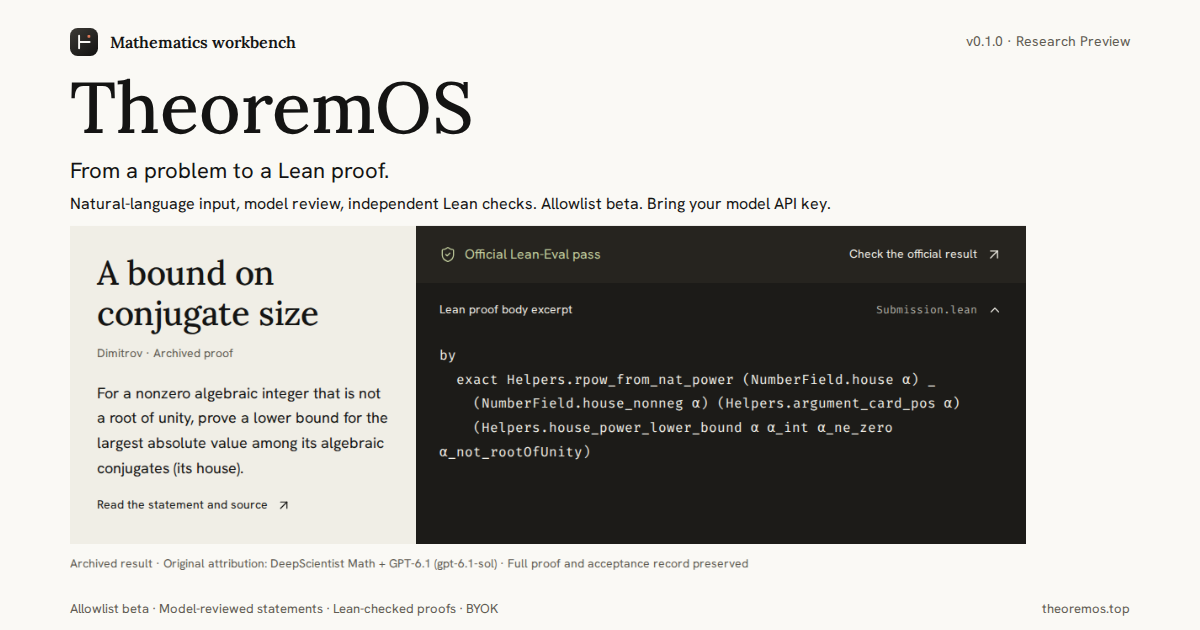
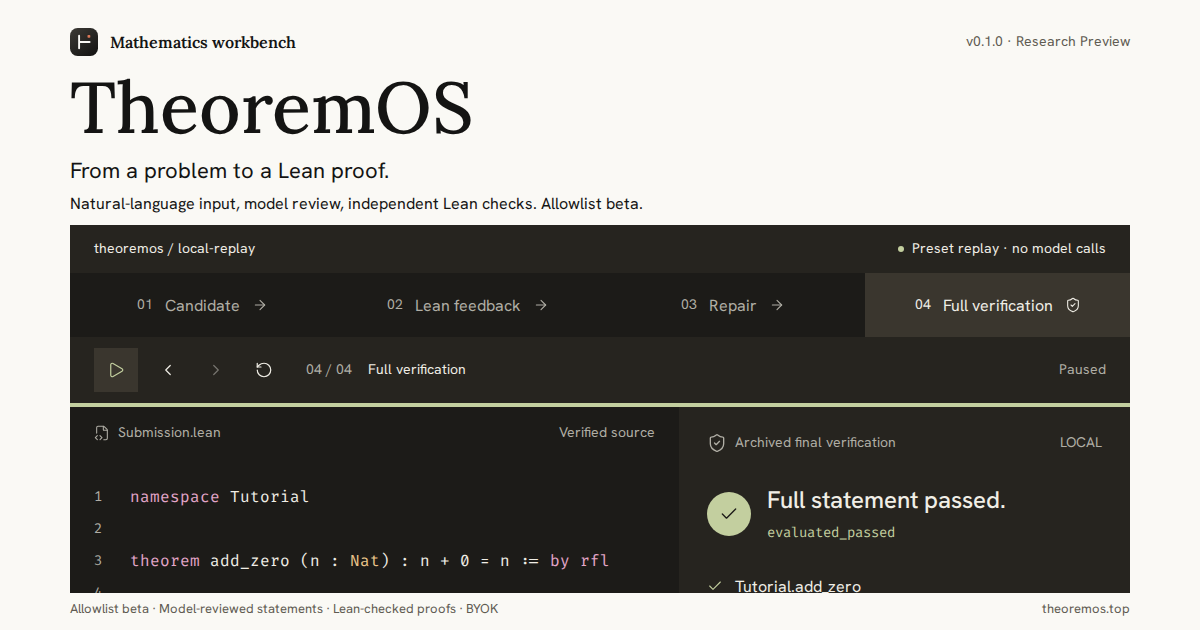
Restore the original website palette and serif identity

Changed region(s): [[0.0308, 0.3317, 0.9558, 0.9651], [0.5242, 0.3016, 0.7092, 0.3619], [0.5858, 0.4825, 0.6475, 0.5127]]

diff --git a/docs/landing.css b/docs/landing.css
@@ -27,29 +27,53 @@
   font-display: swap;
 }
 
+@font-face {
+  font-family: "TheoremOS Serif Latin";
+  src: url("assets/fonts/TheoremOSSerif-latin.woff2") format("woff2");
+  font-style: normal;
+  font-weight: 400 700;
+  font-display: swap;
+}
+@font-face {
+  font-family: "TheoremOS Serif SC";
+  src: url("assets/fonts/NotoSerifSC-ui.woff2") format("woff2");
+  font-weight: 400 700;
+  font-display: swap;
+  unicode-range: U+3000-303F,U+4E00,U+4E09-4E0B,U+4E0D-4E0E,U+4E13-4E14,U+4E22,U+4E24,U+4E2A,U+4E2D,U+4E34,U+4E3A-4E3B,U+4E45,U+4E48-4E49,U+4E4B,U+4E5F,U+4E86,U+4E8B,U+4E8E,U+4E94,U+4E9B,U+4EA4,U+4EA7,U+4EAB,U+4EBA,U+4EC0,U+4EC5,U+4ECB,U+4ECD-4ECE,U+4ED6,U+4ED8,U+4EE3-4EE5,U+4EEC,U+4EF6-4EF7,U+4EFB,U+4EFD,U+4F18,U+4F1A,U+4F20,U+4F4D,U+4F53,U+4F55,U+4F59,U+4F5C,U+4F60,U+4F7F,U+4F8B,U+4F9B,U+4F9D,U+4FA7,U+4FDD,U+4FE1,U+4FEE,U+5019,U+503C,U+5047,U+505A,U+505C,U+50A8,U+50CF,U+5141,U+5145,U+5148,U+5165,U+5168,U+516C,U+5171,U+5173,U+5176-5177,U+517C,U+5185,U+518C-518D,U+5199,U+51B2-51B3,U+51C6,U+51CF,U+51E0-51E1,U+51ED,U+51FA-51FB,U+51FD,U+5206-5207,U+5212,U+5217,U+5219,U+521B,U+521D,U+5220,U+5224,U+5230,U+5236-5237,U+524D,U+5269-526A,U+526F,U+529B,U+529F-52A1,U+52A8-52A9,U+52FF,U+5305,U+5316,U+5339-533A,U+534A,U+534F,U+5355,U+5357,U+5360,U+5373,U+5386,U+538B,U+539F,U+53C2,U+53CA,U+53CC-53CD,U+53D1,U+53D6-53D8,U+53E0,U+53E3,U+53E5-53E6,U+53EA,U+53EF-53F0,U+53F2-53F3,U+53F7,U+5404,U+5408,U+540C-540E,U+5411,U+5417,U+5426,U+542B,U+542F,U+544A,U+547D,U+548C,U+54A8,U+54C1,U+54C8,U+54CD,U+54EA,U+5546,U+5668,U+56DB,U+56DE,U+56E0,U+56F4,U+56FA,U+56FE,U+5728,U+5730,U+573A,U+5740,U+5747,U+5757,U+578B,U+57DF,U+57FA,U+585E,U+586B,U+5883,U+589E,U+58F0,U+5904,U+5907,U+590D,U+5916,U+591A,U+5927,U+5931,U+5934,U+5939,U+597D,U+5982,U+59CB,U+5B57-5B58,U+5B66,U+5B83,U+5B89,U+5B8C,U+5B98,U+5B9A,U+5B9E,U+5BA1,U+5BB9,U+5BBD,U+5BC6,U+5BDF,U+5BF9,U+5BFC,U+5C06,U+5C0F,U+5C11,U+5C1A,U+5C1D,U+5C31,U+5C3E,U+5C40,U+5C42,U+5C55,U+5C5E,U+5DE5-5DE6,U+5DEE,U+5DF1-5DF2,U+5E03,U+5E0C,U+5E26,U+5E38,U+5E72-5E73,U+5E76,U+5E8F,U+5E93-5E94,U+5EA6,U+5EF6,U+5EFA,U+5F00,U+5F02-5F03,U+5F0F,U+5F15,U+5F20,U+5F3A,U+5F52-5F53,U+5F55,U+5F62,U+5F71,U+5F80,U+5F84-5F85,U+5F97,U+5FAA,U+5FAE,U+5FC3,U+5FC5,U+5FEB,U+5FFD,U+6001,U+601D,U+6027,U+603B,U+6062,U+606F,U+60AC,U+60C5,U+60F3,U+610F,U+611F,U+6210-6211,U+6216,U+622A,U+6237,U+6240,U+624B,U+624D,U+6253,U+6267,U+6269,U+627E,U+628A,U+6295,U+6298,U+62A5,U+62D2,U+62D6,U+62E9,U+62EC,U+6301,U+6307,U+6309,U+6320,U+6355,U+6362,U+636E,U+6392,U+63A2,U+63A5,U+63A8,U+63CF-63D0,U+641C,U+6458,U+64A4,U+64AD,U+64CD,U+652F,U+6536,U+6539,U+653E,U+6545,U+6548,U+654F,U+6563,U+6570,U+6574,U+6587,U+6599,U+65AD,U+65B0,U+65B9,U+65CF,U+65E0,U+65E5,U+65E7,U+65E9,U+65F6,U+660E,U+662F,U+663E,U+666E-666F,U+6682,U+66F4,U+66FC,U+66FF-6700,U+6709,U+670D,U+671B,U+671F,U+672A-672C,U+673A,U+6743,U+6750,U+675F,U+6761,U+6765,U+677F,U+6784,U+6790,U+679C,U+67E5,U+6807,U+680F,U+6821,U+6838-6839,U+683C,U+6846,U+6848,U+6863,U+68C0,U+6982,U+69DB,U+6A21,U+6B21,U+6B62-6B65,U+6BB5,U+6BCD,U+6BCF,U+6BD4,U+6C42,U+6CA1,U+6CBF,U+6CD5,U+6CDB,U+6CE8,U+6D3B,U+6D41,U+6D4B,U+6D4F,U+6D88,U+6DFB,U+6E05,U+6E10,U+6E38,U+6E90,U+6EAF,U+6ED1,U+6EDA,U+6EDE,U+6EE1,U+70B9,U+7136,U+7167,U+7247-7248,U+724C,U+7269,U+72B6,U+72EC,U+731C,U+7387,U+73AF-73B0,U+7406,U+751F,U+7528,U+7531,U+753B,U+754C,U+7559,U+7565,U+7591,U+767B,U+7684,U+76D6,U+76D8,U+76EE,U+76F4,U+76F8,U+770B,U+771F,U+77E5,U+77ED,U+7801,U+7814,U+786E,U+78C1,U+793A,U+79BB,U+79CD,U+79D2,U+79F0,U+79FB,U+7A0B,U+7A0D,U+7A3F,U+7A76,U+7A7A,U+7A81,U+7A97,U+7ACB,U+7AD9,U+7AE0,U+7B26,U+7B2C,U+7B49,U+7B56,U+7B5B,U+7B7E,U+7B80,U+7B97,U+7C7B,U+7C98,U+7CBE,U+7CFB,U+7D22,U+7D2F,U+7E41,U+7EA6-7EA7,U+7EB3,U+7EBF,U+7EC4,U+7EC6-7EC8,U+7ECF,U+7ED1,U+7ED3,U+7ED9,U+7EDC-7EDD,U+7EDF,U+7EE7,U+7EEA,U+7EED,U+7F13,U+7F16,U+7F29,U+7F3A,U+7F51,U+7F6E,U+7F72,U+7FA4,U+8003,U+8005,U+8017,U+8054,U+80FD,U+811A,U+81EA,U+81F3-81F4,U+822A,U+8272,U+8282,U+82F1,U+8303,U+8349,U+83B7,U+85CF,U+884C,U+8865,U+8868,U+88AB,U+88C5,U+8981,U+8986,U+89C1-89C2,U+89C4,U+89C6,U+89C8,U+89D2,U+89E3,U+8BA1,U+8BA4,U+8BA8-8BA9,U+8BAE,U+8BB0,U+8BB2,U+8BB8,U+8BBA,U+8BBE-8BBF,U+8BC1,U+8BC6,U+8BC9-8BCA,U+8BCD,U+8BD1,U+8BD5,U+8BDD,U+8BE2,U+8BE5-8BE6,U+8BED,U+8BEF,U+8BF4,U+8BF7,U+8BFB,U+8C03,U+8C31,U+8C61,U+8D1F,U+8D23,U+8D25-8D26,U+8D28,U+8D34,U+8D39,U+8D44,U+8D56,U+8D77,U+8D85,U+8DB3,U+8DD1,U+8DDF,U+8DE8,U+8DEF,U+8DF3,U+8EAB,U+8F6C,U+8F6E,U+8F7D,U+8F83,U+8F85,U+8F91,U+8F93,U+8FBE,U+8FC1,U+8FC7,U+8FD0-8FD1,U+8FD4,U+8FD8-8FD9,U+8FDB,U+8FDE,U+8FF0,U+8FFD,U+9000-9002,U+9009,U+9010,U+9012,U+9017,U+901A,U+9020,U+903B,U+9047,U+9053,U+90E8,U+90FD,U+914D,U+9192,U+91C7,U+91CA,U+91CC-91CD,U+91CF,U+94A5,U+94FE,U+9500,U+9519,U+952E,U+955C,U+957F,U+95E8,U+95ED-95EE,U+95F2,U+95F4,U+9605,U+9608,U+961F,U+9636,U+963B,U+9644-9645,U+9650,U+9664,U+968F-9690,U+9694,U+969C,U+96C6,U+96F6,U+9700,U+9759,U+975E,U+9762,U+9875,U+9879-987B,U+9884,U+9886,U+9891,U+9898,U+989D,U+9988,U+9996,U+9A8C,U+9AA4,U+9AD8,U+9ECE,U+9ED8,U+FF01-FF5E;
+}
+@font-face {
+  font-family: "TheoremOS Serif SC";
+  src: url("assets/fonts/NotoSerifSC-common.woff2") format("woff2");
+  font-weight: 400 700;
+  font-display: swap;
+  unicode-range: U+4E01,U+4E03,U+4E07-4E08,U+4E11,U+4E16,U+4E18-4E1D,U+4E25,U+4E27,U+4E2B,U+4E30,U+4E32,U+4E38-4E39,U+4E3D-4E3E,U+4E43,U+4E4C-4E50,U+4E52-4E54,U+4E56,U+4E58-4E59,U+4E5D-4E5E,U+4E60-4E61,U+4E66,U+4E70-4E71,U+4E73,U+4E7E,U+4E88-4E89,U+4E8C,U+4E8F,U+4E91-4E92,U+4E95,U+4E9A,U+4EA1-4EA2,U+4EA5-4EA6,U+4EA8-4EA9,U+4EAC-4EAE,U+4EB2,U+4EBF,U+4EC1,U+4EC6-4EC7,U+4ECA,U+4ED1,U+4ED3-4ED5,U+4ED7,U+4ED9,U+4EDF,U+4EEA,U+4EF0,U+4EF2,U+4EFF,U+4F01,U+4F0A,U+4F0D-4F11,U+4F17,U+4F19,U+4F1E-4F1F,U+4F24,U+4F26,U+4F2A,U+4F2F-4F30,U+4F34,U+4F36,U+4F38,U+4F3A,U+4F3C,U+4F43,U+4F46,U+4F4E-4F51,U+4F5B,U+4F63,U+4F69,U+4F6C,U+4F6F-4F70,U+4F73,U+4F84,U+4F88,U+4F8D,U+4F97,U+4FA0,U+4FA3,U+4FA5-4FA6,U+4FA8-4FA9,U+4FAE-4FAF,U+4FB5,U+4FBF,U+4FC3-4FC4,U+4FCA,U+4FCF-4FD0,U+4FD7-4FD8,U+4FDE,U+4FE9,U+4FED,U+4FEF,U+4FF1,U+4FFA,U+500D,U+5012,U+5014,U+5018,U+501A,U+501F,U+5021,U+5026,U+502A,U+503A,U+503E,U+504F,U+5065,U+5076-5077,U+507F-5080,U+5085,U+5088,U+508D,U+50A3,U+50AC,U+50B2,U+50BB,U+50DA,U+50E7,U+50F3,U+50F5,U+50FB,U+5112,U+5121,U+513F,U+5143-5144,U+5146,U+5149,U+514B,U+514D,U+5151,U+5154,U+515A,U+515C,U+5162,U+516B,U+516D,U+5170,U+5174-5175,U+5178-5179,U+517B,U+517D,U+5180,U+5188-5189,U+5192,U+5195,U+5197,U+519B-519C,U+51A0,U+51A4,U+51AC,U+51AF-51B0,U+51B5-51B7,U+51BB,U+51C0,U+51C4,U+51C9,U+51CB-51CC,U+51D1,U+51DB,U+51DD,U+51E4,U+51EF-51F0,U+51F3,U+51F6,U+51F8-51F9,U+51FF-5201,U+5203,U+520A,U+5211,U+5218,U+521A,U+5228-5229,U+522B,U+522E,U+5238-523B,U+523D,U+5241-5243,U+524A,U+5250-5251,U+5254,U+5256,U+5265,U+5267,U+5272,U+527F,U+5288,U+529D-529E,U+52A3,U+52AA-52AB,U+52B1-52B3,U+52BF,U+52C3,U+52C7,U+52C9,U+52CB,U+52D2,U+52D8,U+52DF,U+52E4,U+52FA,U+52FE,U+5300,U+5306,U+5308,U+5317,U+5319,U+531D,U+5320-5321,U+5323,U+532A,U+533B,U+533F,U+5341,U+5343,U+5347-5349,U+534E,U+5351-5353,U+5356,U+535A,U+535C,U+535E,U+5361-5362,U+5364,U+5367,U+536B,U+536F-5371,U+5374-5375,U+5377-5378,U+537F,U+5382,U+5384-5385,U+5389,U+538C,U+5395,U+5398,U+539A,U+53A2,U+53A6,U+53A8-53A9,U+53BB,U+53BF,U+53C1,U+53C8-53C9,U+53CB,U+53D4,U+53D9,U+53DB,U+53E4,U+53EB-53EE,U+53F6,U+53F8-53F9,U+53FC,U+5401,U+5403,U+5409-540A,U+540F-5410,U+5413,U+5415,U+541B,U+541D-5420,U+5427-5429,U+542C-542E,U+5431,U+5434-5435,U+5438-5439,U+543B-543C,U+543E,U+5440,U+5446,U+5448,U+5450,U+5455,U+5458,U+545B-545C,U+5462,U+5468,U+5473,U+5475,U+5478,U+547B-547C,U+5480,U+5486,U+548B,U+548E-5490,U+5492,U+5495-5496,U+5499,U+54AC,U+54AF,U+54B1,U+54B3,U+54B8,U+54BD,U+54C0,U+54C4,U+54C6-54C7,U+54C9,U+54CE,U+54D1,U+54D7,U+54DF,U+54E5-54E6,U+54E8-54E9,U+54ED-54EE,U+54F2,U+54FA,U+54FC,U+5501,U+5506-5507,U+5509,U+5510,U+5524,U+552C,U+552E-552F,U+5531,U+553E,U+5543-5544,U+554A,U+5561,U+5564-5566,U+556A,U+556E,U+5578,U+557C,U+5580,U+5582,U+5584,U+5587,U+5589-558A,U+5598,U+559C-559D,U+55A7,U+55B3,U+55B7,U+55BB,U+55C5,U+55D3,U+55DC,U+55E1,U+55E3,U+55FD,U+5609,U+560E,U+5618,U+561B,U+5631-5632,U+5634,U+5636,U+563B,U+563F,U+564E,U+566A,U+566C,U+5676,U+568E-568F,U+56A3,U+56B7,U+56BC,U+56CA,U+56DA,U+56E2,U+56E4,U+56ED,U+56F0-56F1,U+56FD,U+5703,U+5706,U+5708,U+571F,U+5723,U+572D,U+573E,U+574A,U+574D-5751,U+575A-575B,U+575D-5761,U+5764,U+5766,U+576A,U+576F,U+5777,U+5782-5784,U+5792,U+579B,U+57A2-57A3,U+57A6,U+57AB,U+57AE,U+57C2-57C3,U+57CB,U+57CE,U+57D4,U+57E0,U+57F9,U+5802,U+5806,U+5811,U+5815,U+5821,U+5824,U+582A,U+5830,U+5835,U+584C,U+5851,U+5854,U+5858,U+5885,U+5892-5893,U+5899,U+589F,U+58A8-58A9,U+58C1,U+58D5,U+58E4,U+58EB-58EC,U+58EE,U+58F3,U+58F6,U+58F9,U+590F,U+5915,U+591C,U+591F,U+5929-592B,U+592E-592F,U+5937-5938,U+593A,U+5944,U+5947-5949,U+594B,U+594E-594F,U+5951,U+5954,U+5956-5957,U+5960,U+5962,U+5965,U+5973-5974,U+5976,U+5978-5979,U+5984,U+5986-5988,U+598A,U+5992-5993,U+5996,U+5999,U+59A5,U+59A8,U+59AE,U+59B9,U+59BB,U+59C6,U+59D0-59D1,U+59D3-59D4,U+59DA,U+59DC,U+59E5,U+59E8,U+59EC,U+59FB,U+59FF,U+5A01,U+5A03-5A04,U+5A07,U+5A18,U+5A1C,U+5A1F-5A20,U+5A25,U+5A29,U+5A31,U+5A36,U+5A46,U+5A49,U+5A5A,U+5A6A,U+5A74,U+5A76,U+5A7F,U+5A92,U+5A9A,U+5AB3,U+5AC1-5AC2,U+5AC9,U+5ACC,U+5AE1,U+5AE9,U+5B50,U+5B54-5B55,U+5B59,U+5B5C-5B5D,U+5B5F,U+5B63-5B64,U+5B69-5B6A,U+5B70,U+5B75,U+5B7A,U+5B7D,U+5B81,U+5B85,U+5B87-5B88,U+5B8B,U+5B8F,U+5B97,U+5B99,U+5B9B-5B9D,U+5BA0,U+5BA2-5BA4,U+5BA6,U+5BAA-5BAB,U+5BB0,U+5BB3-5BB6,U+5BBE-5BBF,U+5BC2,U+5BC4-5BC5,U+5BC7,U+5BCC,U+5BD0,U+5BD2-5BD3,U+5BDD-5BDE,U+5BE1,U+5BE5,U+5BE8,U+5BF8,U+5BFA-5BFB,U+5BFF,U+5C01,U+5C04,U+5C09-5C0A,U+5C14,U+5C16,U+5C18,U+5C24,U+5C27,U+5C38-5C3A,U+5C3C-5C3D,U+5C3F,U+5C41,U+5C45,U+5C48-5C4B,U+5C4E-5C4F,U+5C51,U+5C60-5C61,U+5C65,U+5C6F,U+5C71,U+5C79,U+5C7F,U+5C81-5C82,U+5C94,U+5C97,U+5C9B,U+5CA9,U+5CAD,U+5CB3,U+5CB8,U+5CBF,U+5CD9,U+5CE1,U+5CE6,U+5CE8,U+5CEA,U+5CED,U+5CF0,U+5CFB,U+5D07,U+5D0E,U+5D14,U+5D16,U+5D29,U+5D2D,U+5D4C,U+5DCD,U+5DDD-5DDE,U+5DE1-5DE2,U+5DE7-5DE9,U+5DEB,U+5DF3-5DF4,U+5DF7,U+5DFE,U+5E01-5E02,U+5E05-5E06,U+5E08,U+5E10,U+5E15-5E16,U+5E18,U+5E1A-5E1D,U+5E27,U+5E2D-5E2E,U+5E3D,U+5E42,U+5E45,U+5E4C,U+5E55,U+5E62,U+5E74,U+5E78,U+5E7B-5E7D,U+5E7F,U+5E84,U+5E86-5E87,U+5E8A,U+5E90,U+5E95,U+5E97,U+5E99-5E9A,U+5E9C,U+5E9E-5E9F,U+5EA7,U+5EAD,U+5EB6-5EB8,U+5EC9-5ECA,U+5ED3,U+5ED6,U+5EF7,U+5F04,U+5F0A,U+5F13,U+5F17-5F18,U+5F1B,U+5F1F,U+5F25-5F27,U+5F2F,U+5F31,U+5F39,U+5F5D,U+5F64,U+5F66,U+5F69-5F6A,U+5F6C-5F6D,U+5F70,U+5F79,U+5F7B-5F7C,U+5F81,U+5F88,U+5F8A-5F8B,U+5F90,U+5F92,U+5F98,U+5FA1,U+5FB7,U+5FBD,U+5FC6,U+5FCC-5FCD,U+5FD7-5FD9,U+5FE0,U+5FE7,U+5FF1,U+5FF5,U+5FFB,U+5FFF-6000,U+6002,U+600E,U+6012,U+6014-6016,U+601C,U+6020,U+6025,U+6028,U+602A,U+602F,U+6043,U+604B,U+604D,U+6050,U+6052,U+6055,U+6064,U+6068-6069,U+606B-606D,U+6070,U+6073,U+6076,U+607C,U+607F,U+6084,U+6089,U+608D,U+6094,U+609F-60A0,U+60A3,U+60A6,U+60A8,U+60AF,U+60B2,U+60B8,U+60BC,U+60CA-60CB,U+60D1,U+60D5,U+60DC,U+60DF-60E0,U+60E6-60E9,U+60EB,U+60ED-60F0,U+60F6,U+60F9-60FA,U+6101,U+6108-6109,U+611A,U+6124,U+6127,U+613F,U+6148,U+614C,U+614E,U+6151,U+6155,U+6162,U+6167-6168,U+6170,U+6177,U+618B,U+618E,U+61A8,U+61BE,U+61C2,U+61C8,U+61CA,U+61D2,U+61E6,U+6208,U+620A,U+620C-620F,U+6212,U+6218,U+621A,U+622E,U+6233-6234,U+623F,U+6241,U+6247,U+624E,U+6251-6252,U+6254,U+6258,U+625B,U+6263,U+6266,U+626B-6270,U+6273,U+6276,U+6279,U+627C,U+627F-6280,U+6284,U+6289,U+6291-6293,U+6296-6297,U+629A-629B,U+62A0-62A2,U+62A4,U+62A8,U+62AB-62AC,U+62B1,U+62B5,U+62B9,U+62BC-62BD,U+62BF,U+62C2,U+62C4-62C9,U+62CC-62CE,U+62D0,U+62D3-62D4,U+62D8-62D9,U+62DB-62DC,U+62DF,U+62E2-62E3,U+62E5-62E8,U+62ED,U+62EF,U+62F1,U+62F3-62F4,U+62F7,U+62FC-62FF,U+6302,U+630E,U+6311,U+6316,U+631A-631B,U+631D-631F,U+6321,U+6323-6325,U+6328,U+632A-632B,U+632F,U+633A,U+633D,U+6342,U+6345-6346,U+6349,U+634C-6350,U+635E-635F,U+6361,U+6363,U+6367,U+6376-6377,U+637B,U+6380,U+6382,U+6387-6389,U+638C,U+638F-6390,U+6396,U+6398,U+63A0,U+63A3,U+63A7,U+63A9-63AA,U+63B3,U+63B7-63B8,U+63BA,U+63C9,U+63CD,U+63D2,U+63D6,U+63E1,U+63E3,U+63E9-63EA,U+63ED,U+63F4,U+63FD,U+6400-6402,U+6405,U+640F-6410,U+6413-6414,U+641E,U+642A,U+642C-642D,U+643A,U+643D,U+6444,U+6446-6448,U+644A,U+6454,U+6467,U+6469,U+6478-6479,U+6482,U+6485,U+6487,U+6491-6492,U+6495,U+649E,U+64A9,U+64AC,U+64AE,U+64B0,U+64B5,U+64BC,U+64C2,U+64C5,U+64CE,U+64D2,U+64DE,U+64E6,U+6500,U+6512,U+6518,U+652B,U+653B,U+653F,U+654C,U+6551,U+6556,U+6559,U+655B,U+655D-655E,U+6562,U+6566,U+656C,U+6572,U+6577,U+658B-658C,U+6591,U+6597,U+659C,U+659F,U+65A1,U+65A4-65A5,U+65A7,U+65A9,U+65AF,U+65BD,U+65C1,U+65C5,U+65CB,U+65D7,U+65E2,U+65E6,U+65E8,U+65EC-65ED,U+65F1,U+65F7,U+65FA,U+6602,U+6606,U+660C,U+660F,U+6613-6614,U+661F-6620,U+6625,U+6627-6628,U+662D,U+663C,U+6643,U+664B-664C,U+6652-6653,U+6655,U+665A,U+6664,U+6666,U+6668,U+6670,U+6674,U+6676,U+667A,U+667E,U+6687,U+6691,U+6696-6697,U+66AE,U+66B4,U+66D9,U+66DD,U+66F0,U+66F2-66F3,U+66F9,U+66FE,U+6708,U+670B,U+6714,U+6717,U+671D,U+6728,U+672D,U+672F,U+6731,U+6734-6735,U+673D,U+6740,U+6742,U+6746,U+6749,U+674E-674F,U+6751,U+6756,U+675C,U+6760,U+6768,U+676D,U+676F-6770,U+677E,U+6781,U+6789,U+6795,U+6797,U+679A,U+679D,U+67A2-67A3,U+67AA-67AB,U+67AF,U+67B6-67B7,U+67C4,U+67CF-67D4,U+67DC,U+67DE,U+67E0,U+67EC,U+67EF,U+67F1,U+67F3-67F4,U+67FF,U+6805,U+6808,U+680B,U+6811,U+6813,U+6816-6817,U+682A,U+6837,U+683D,U+6842-6843,U+6845,U+684C,U+6850-6851,U+6853-6854,U+6865,U+6868-6869,U+6876,U+6881,U+6885-6886,U+6897,U+68A2,U+68A6-68A8,U+68AD,U+68AF-68B0,U+68B3,U+68C9,U+68CB,U+68CD,U+68D2,U+68D5,U+68D8,U+68DA,U+68E0,U+68EE,U+68F1,U+68F5,U+68FA,U+6905,U+690D-690E,U+6912,U+692D,U+6930,U+693D,U+693F,U+6954,U+695A,U+695E,U+6977,U+697C,U+6986,U+6994,U+699C,U+69A8,U+69B4,U+69B7,U+69D0,U+69FD,U+6A0A,U+6A1F,U+6A2A,U+6A31,U+6A47,U+6A59,U+6A61,U+6A71,U+6A80,U+6A84,U+6AAC,U+6B20,U+6B22-6B23,U+6B27,U+6B32,U+6B3A,U+6B3E,U+6B47,U+6B49,U+6B4C,U+6B66-6B67,U+6B6A,U+6B79,U+6B7B-6B7C,U+6B83,U+6B86,U+6B89-6B8B,U+6B96,U+6BB4,U+6BB7,U+6BBF,U+6BC1,U+6BC5,U+6BCB,U+6BD2,U+6BD5-6BD7,U+6BD9,U+6BDB,U+6BE1,U+6BEB,U+6BEF,U+6C0F,U+6C11,U+6C13-6C14,U+6C16,U+6C1B,U+6C1F,U+6C22,U+6C26-6C28,U+6C2E-6C30,U+6C34,U+6C38,U+6C40-6C41,U+6C47,U+6C49,U+6C50,U+6C55,U+6C57,U+6C5B,U+6C5D-6C61,U+6C64,U+6C6A,U+6C70,U+6C72,U+6C79,U+6C7D-6C7E,U+6C81-6C83,U+6C88-6C89,U+6C8F,U+6C99,U+6C9B,U+6C9F,U+6CA4-6CA7,U+6CAA-6CAB,U+6CAE,U+6CB3,U+6CB8-6CB9,U+6CBB-6CBE,U+6CC4-6CC5,U+6CC9-6CCA,U+6CCC,U+6CDE,U+6CE1-6CE3,U+6CE5,U+6CEA,U+6CF0,U+6CF3,U+6CF5,U+6CFB-6CFD,U+6D01,U+6D0B,U+6D12,U+6D17,U+6D1B,U+6D1E,U+6D25,U+6D2A,U+6D31-6D32,U+6D3C-6D3E,U+6D45-6D47,U+6D4A,U+6D4E,U+6D51,U+6D53,U+6D59-6D5A,U+6D66,U+6D69-6D6A,U+6D6E,U+6D74,U+6D77-6D78,U+6D82,U+6D85,U+6D89,U+6D8C,U+6D8E,U+6D95,U+6D9B,U+6D9D,U+6D9F,U+6DA1,U+6DA3-6DA4,U+6DA6-6DAA,U+6DAF,U+6DB2,U+6DB5,U+6DB8,U+6DC0,U+6DC4,U+6DC6,U+6DCB-6DCC,U+6DD1,U+6DD6,U+6DD8,U+6DE1,U+6DE4,U+6DEB-6DEC,U+6DEE,U+6DF1,U+6DF3,U+6DF7,U+6DF9,U+6E0A,U+6E0D,U+6E14,U+6E17,U+6E1D,U+6E20-6E21,U+6E23-6E24,U+6E29,U+6E2D,U+6E2F,U+6E34,U+6E3A,U+6E43,U+6E4D,U+6E56,U+6E58,U+6E5B,U+6E7E-6E7F,U+6E83,U+6E85,U+6E89,U+6E9C,U+6EA2,U+6EAA,U+6EB6,U+6EBA,U+6EC1,U+6EC7,U+6ECB,U+6ED3-6ED4,U+6EE4-6EE6,U+6EE8-6EE9,U+6EF4,U+6F02,U+6F06,U+6F0F,U+6F13-6F14,U+6F20,U+6F2B,U+6F31,U+6F33,U+6F3E,U+6F4D,U+6F58,U+6F5C,U+6F5E,U+6F66,U+6F6D-6F6E,U+6F84,U+6F88,U+6F8E,U+6F9C,U+6FA1,U+6FB3,U+6FC0,U+6FD2,U+7011,U+704C,U+706B,U+706D,U+706F-7070,U+7075-7076,U+7078,U+707C,U+707E-707F,U+7089-708A,U+708E,U+7092,U+7094-7095,U+7099,U+70AC-70AF,U+70B3,U+70B8,U+70BC-70BD,U+70C1-70C3,U+70C8,U+70D8-70D9,U+70DB,U+70DF,U+70E4,U+70E6-70E7,U+70E9,U+70EB-70ED,U+70EF,U+70F7,U+70F9,U+70FD,U+7109-710A,U+7115,U+7119-711A,U+7126,U+7130,U+714C,U+714E,U+715E,U+7164,U+716E,U+717D,U+7184,U+718A,U+718F,U+7194,U+7199,U+719F,U+71AC,U+71C3,U+71CE,U+71D5,U+71E5,U+7206,U+722A,U+722C,U+7231,U+7235-7239,U+723D,U+7259,U+725B,U+725F,U+7261-7262,U+7267,U+7272,U+7275,U+7279-727A,U+7280-7281,U+728A,U+72AC,U+72AF,U+72B9,U+72C2,U+72C4,U+72C8,U+72D0,U+72D7,U+72D9,U+72DE,U+72E0-72E1,U+72ED-72EE,U+72F0-72F1,U+72F8,U+72FC,U+730E,U+7316,U+731B,U+7329-732B,U+732E,U+7334,U+733E-733F,U+736D,U+7384,U+7389,U+738B,U+7396,U+739B,U+73A9,U+73AB,U+73B2,U+73BB,U+73CA,U+73CD,U+73D0,U+73E0,U+73ED,U+7403,U+7405,U+7409,U+7410,U+7422,U+7433-7436,U+743C,U+745A,U+745E-745F,U+7470,U+7476,U+7483,U+74DC,U+74E2-74E4,U+74E6,U+74EE,U+74F6-74F7,U+7504,U+7518,U+751A,U+751C,U+7525,U+7529,U+752B,U+752D,U+7530,U+7532-7533,U+7535,U+7537-7538,U+7545,U+754F,U+7554,U+755C,U+7566,U+756A,U+7574,U+7578,U+7586,U+758F,U+7597,U+7599-759A,U+759F,U+75A1,U+75A4-75A5,U+75AB,U+75AE-75AF,U+75B2,U+75B5,U+75B9,U+75BC-75BE,U+75C5,U+75C7-75CA,U+75D2,U+75D4-75D5,U+75D8,U+75DB,U+75DE,U+75E2,U+75EA,U+75F0,U+75F4,U+75F9,U+7601,U+761F,U+7624,U+7626,U+7629-762B,U+7634,U+7638,U+764C,U+7663,U+7678,U+767D-767E,U+7682,U+7686-7687,U+768B,U+7691,U+7696,U+76AE,U+76B1,U+76BF,U+76C2,U+76C5-76C6,U+76C8,U+76CA,U+76CE-76D2,U+76D4,U+76D7,U+76DB,U+76DF,U+76EF,U+76F2,U+76FC,U+76FE,U+7701,U+7709,U+7720,U+7728-7729,U+772F,U+7736-7737,U+773A,U+773C,U+7740-7741,U+775B,U+7761,U+7763,U+7766,U+776B-776C,U+7779,U+7784-7785,U+778E,U+7792,U+77A5,U+77A7,U+77A9-77AA,U+77AC,U+77B3,U+77BB,U+77D7,U+77DB,U+77E2-77E3,U+77E9,U+77EB,U+77EE,U+77F3,U+77FD-77FF,U+7802,U+780C-780D,U+7812,U+7816,U+781A,U+7827,U+7830,U+7834,U+7837-7838,U+783E,U+7840,U+7845,U+7852,U+7855,U+785D,U+786B-786C,U+7877,U+787C,U+7889,U+788C-788E,U+7891,U+7897-7898,U+789F,U+78A7,U+78B0-78B1,U+78B3-78B4,U+78BE,U+78C5,U+78CA-78CB,U+78D0,U+78D5,U+78E8,U+78F7,U+78FA,U+7901,U+793C,U+793E,U+7941,U+7948,U+7956,U+795D-795F,U+7965,U+7968,U+796D,U+7977-7978,U+7981,U+7984,U+798F,U+79B9,U+79BD-79BE,U+79C0-79C1,U+79C3,U+79C6,U+79C9,U+79CB,U+79D1,U+79D8,U+79DF,U+79E4,U+79E6-79E7,U+79E9,U+79EF,U+79F8,U+79FD,U+7A00,U+7A0E,U+7A17,U+7A1A,U+7A20,U+7A33,U+7A3B-7A3D,U+7A46,U+7A57,U+7A74,U+7A77,U+7A7F,U+7A83-7A84,U+7A8D,U+7A91-7A92,U+7A96,U+7A98,U+7A9C-7A9D,U+7A9F,U+7AA5,U+7ABF,U+7AD6,U+7ADE-7ADF,U+7AE3,U+7AE5,U+7AED,U+7AEF,U+7AF9,U+7AFF,U+7B06,U+7B0B,U+7B11,U+7B14,U+7B1B,U+7B28,U+7B3A,U+7B3C,U+7B4B,U+7B4F-7B52,U+7B54,U+7B77,U+7B79,U+7B8D,U+7B94-7B95,U+7BA1,U+7BA9,U+7BAD,U+7BB1,U+7BC6-7BC7,U+7BD3,U+7BD9,U+7BE1,U+7BEE,U+7BF1,U+7BF7,U+7C07,U+7C27,U+7C3F,U+7C4D,U+7C73,U+7C7D,U+7C89,U+7C92,U+7C95,U+7C97,U+7C9F,U+7CA4-7CA5,U+7CAA,U+7CAE,U+7CB1,U+7CB3,U+7CB9,U+7CCA,U+7CD5-7CD6,U+7CD9,U+7CDC,U+7CDF-7CE0,U+7CEF,U+7D0A,U+7D20,U+7D27,U+7D2B,U+7D6E,U+7E82,U+7EA0,U+7EA2,U+7EA4,U+7EAA-7EAC,U+7EAF,U+7EB1-7EB2,U+7EB5-7EBA,U+7EBD,U+7EC3,U+7EC5,U+7ECA,U+7ECD-7ECE,U+7ED2,U+7ED5,U+7ED8,U+7EDA,U+7EDE,U+7EE2-7EE3,U+7EE5-7EE6,U+7EE9,U+7EF0,U+7EF3-7EF5,U+7EF7-7EF8,U+7EFC-7EFD,U+7EFF-7F00,U+7F04-7F06,U+7F09,U+7F0E,U+7F14-7F15,U+7F18,U+7F1A,U+7F1D,U+7F20,U+7F28,U+7F2E,U+7F34,U+7F38,U+7F50,U+7F55,U+7F57,U+7F5A,U+7F62,U+7F69-7F6A,U+7F8A,U+7F8C,U+7F8E,U+7F94,U+7F9A,U+7F9E,U+7FA1,U+7FB9,U+7FBD,U+7FC1,U+7FC5,U+7FCC,U+7FD4,U+7FD8,U+7FDF-7FE0,U+7FF0-7FF1,U+7FFB-7FFC,U+8000-8001,U+800C-800D,U+8010,U+8015,U+8018-8019,U+802A,U+8033,U+8036,U+8038,U+803B,U+803D,U+803F,U+8042,U+804A-804C,U+8058,U+805A,U+806A,U+8083-8084,U+8086-8087,U+8089,U+808B-808C,U+8096,U+8098,U+809A-809B,U+809D,U+80A0-80A2,U+80A4-80A5,U+80A9-80AA,U+80AE-80AF,U+80B2,U+80BA,U+80BE-80C1,U+80C3,U+80C6,U+80CC,U+80CE,U+80D6,U+80DA,U+80DC,U+80DE,U+80E1,U+80EF-80F0,U+80F3,U+80F6,U+80F8,U+80FA,U+8102,U+8106,U+8109-810A,U+810F-8111,U+8113,U+8116,U+812F,U+8131,U+8138,U+813E,U+8146,U+814A-814B,U+8150-8151,U+8154-8155,U+8165,U+816E,U+8170,U+8179-817B,U+817E-8180,U+818A,U+818F,U+8198,U+819B-819D,U+81A8,U+81B3,U+81C0,U+81C2-81C3,U+81C6,U+81E3,U+81ED,U+81FB-81FC,U+8200,U+8205-8206,U+820C-820D,U+8212,U+8214,U+821C,U+821E-821F,U+822C,U+8230-8231,U+8235-8237,U+8239,U+8247,U+8258,U+826F-8270,U+8273,U+827A,U+827E,U+828B,U+828D,U+8292,U+829C-829D,U+82A5-82A6,U+82AC-82AD,U+82AF,U+82B1,U+82B3,U+82B9,U+82BD,U+82C7,U+82CD,U+82CF,U+82D1,U+82D4,U+82D7,U+82DB,U+82DE-82DF,U+82E5-82E6,U+82EB,U+82EF,U+82F9,U+8301-8302,U+8304-8305,U+830E,U+8327-8328,U+832B-832C,U+8335-8336,U+8338-8339,U+8346,U+8350,U+8352,U+8354,U+835A,U+8361,U+8363-8364,U+8367,U+836B,U+836F,U+8377,U+8386,U+8389,U+838E,U+83AB,U+83B1-83B2,U+83B9,U+83BD,U+83C7,U+83CA,U+83CC,U+83CF,U+83DC,U+83E0,U+83E9,U+83F1-83F2,U+8404,U+840C-840E,U+841D,U+8424-8425,U+8427-8428,U+843D,U+8457,U+845B,U+8461,U+8463,U+846B-846C,U+8471,U+8475,U+8482,U+848B,U+8499,U+849C,U+84B2,U+84B8,U+84C4,U+84C9,U+84D1,U+84D6,U+84DD,U+84DF,U+84EC,U+8511,U+8513,U+8517,U+851A,U+8521,U+852B-852C,U+8537,U+853C-853D,U+8549-854A,U+8574,U+857E,U+8584,U+859B,U+85AA,U+85AF,U+85C9,U+85D0,U+85D5,U+85E4,U+85E9,U+85FB,U+8611,U+8638,U+864E-8651,U+865A,U+865E,U+866B,U+8671,U+8679,U+867D-867E,U+8680-8682,U+868A,U+868C,U+8695,U+869C,U+86A4,U+86C0,U+86C6-86C7,U+86CA-86CB,U+86D4,U+86D9,U+86DB,U+86E4,U+86EE,U+86F0,U+86F9,U+86FE,U+8700,U+8702,U+8712,U+8715,U+8717-8718,U+871C,U+8721,U+8747,U+8749,U+874E,U+8757,U+8774,U+8776,U+878D,U+879F,U+87BA,U+87F9,U+8815,U+8822,U+8840,U+8845,U+884D,U+8854,U+8857,U+8859,U+8861,U+8863,U+886B-886C,U+8870,U+8877,U+8881,U+8884,U+888B,U+888D,U+8892,U+8896,U+889C,U+88AD,U+88B1,U+88C1-88C2,U+88D4-88D5,U+88D9,U+88E4,U+88F3-88F4,U+88F8-88F9,U+8902,U+8910,U+8912,U+8925,U+892A,U+8944,U+895F,U+897F,U+89C5,U+89C9,U+89E6,U+8A00,U+8A79,U+8A89-8A8A,U+8A93,U+8B66,U+8B6C,U+8BA2-8BA3,U+8BA5,U+8BAB,U+8BAD,U+8BAF,U+8BB3,U+8BB6,U+8BB9,U+8BBC-8BBD,U+8BC0,U+8BC4-8BC5,U+8BC8,U+8BCC,U+8BD7,U+8BDA-8BDB,U+8BDE,U+8BE1,U+8BE3,U+8BE7,U+8BEB-8BEC,U+8BF1-8BF2,U+8BF5,U+8BF8,U+8BFA,U+8BFD-8BFE,U+8C01,U+8C05-8C06,U+8C08,U+8C0A-8C0B,U+8C0D-8C0E,U+8C10,U+8C13,U+8C17,U+8C1A,U+8C1C,U+8C22-8C24,U+8C26,U+8C28-8C29,U+8C2C-8C2D,U+8C30,U+8C34,U+8C37,U+8C41,U+8C46,U+8C4C,U+8C62,U+8C6A-8C6B,U+8C79-8C7A,U+8C89,U+8C8C,U+8D1D-8D1E,U+8D21-8D22,U+8D24,U+8D27,U+8D29-8D31,U+8D35,U+8D37-8D38,U+8D3A,U+8D3C,U+8D3E-8D3F,U+8D41-8D43,U+8D4A-8D4C,U+8D4E-8D50,U+8D54,U+8D58,U+8D5A-8D5B,U+8D5E,U+8D60-8D64,U+8D66,U+8D6B,U+8D70,U+8D74-8D76,U+8D81,U+8D8A-8D8B,U+8D9F,U+8DA3,U+8DB4,U+8DBE,U+8DC3,U+8DCB-8DCC,U+8DDD,U+8DEA,U+8DF5,U+8DFA,U+8E0A,U+8E0C,U+8E0F,U+8E1E,U+8E22,U+8E29-8E2A,U+8E44,U+8E48,U+8E4B,U+8E66,U+8E6C-8E6D,U+8E72,U+8E7F,U+8E81,U+8E87,U+8EAC,U+8EAF,U+8EB2,U+8EBA,U+8F66-8F69,U+8F6F-8F70,U+8F74,U+8F7B,U+8F7F,U+8F86,U+8F88-8F8A,U+8F90,U+8F95-8F97,U+8F99,U+8F9B-8F9C,U+8F9E-8F9F,U+8FA3,U+8FA8-8FA9,U+8FAB,U+8FB0-8FB1,U+8FB9,U+8FBD,U+8FC2,U+8FC4-8FC5,U+8FC8,U+8FCE,U+8FDC-8FDD,U+8FDF,U+8FE2,U+8FEA-8FEB,U+8FED,U+8FF7-8FF9,U+9003,U+9006,U+900A,U+900F,U+9014,U+901B,U+901D-901F,U+9022,U+902E,U+9038,U+903C,U+903E,U+9041-9042,U+904D,U+904F,U+9057,U+9063,U+9065,U+906D-906E,U+9075,U+907F-9080,U+9091,U+9093,U+90A2-90A3,U+90A6,U+90AA,U+90AE-90AF,U+90B1,U+90B5,U+90B9,U+90BB,U+90C1,U+90CA,U+90CE,U+90D1,U+90DD,U+90E1,U+90E7,U+90ED,U+90F4,U+90F8,U+9102,U+9119,U+9149,U+914B-914C,U+9152,U+9157,U+915A,U+915D-915E,U+9163,U+9165,U+916A,U+916C,U+916E,U+9171,U+9175-9178,U+917F,U+9187,U+9189,U+918B,U+919A-919B,U+91C9,U+91CE,U+91D1,U+91DC,U+9274,U+9488-9489,U+948E,U+9492-9493,U+9499,U+949D-94A2,U+94A6-94A9,U+94AE,U+94B1,U+94B3,U+94B5,U+94BB,U+94BE,U+94C0-94C3,U+94C5-94C6,U+94DC-94DD,U+94E1,U+94E3,U+94EC-94ED,U+94F0-94F2,U+94F6,U+94F8,U+94FA,U+9501,U+9504-9505,U+9508,U+950B-950C,U+9510-9511,U+9517,U+951A,U+9521,U+9523-9526,U+9528,U+952D,U+952F-9530,U+9539,U+953B,U+9540-9541,U+9547,U+954A,U+954D,U+9550-9551,U+9563,U+956D,U+9570,U+9576,U+95EA,U+95EF-95F0,U+95F7-95FB,U+95FD,U+9600-9602,U+9609,U+960E,U+9610-9611,U+9614,U+961C,U+962E,U+9632-9635,U+963F-9640,U+9646-9648,U+964B-964D,U+9655,U+965B,U+9661-9662,U+9668-966A,U+9675-9677,U+9685-9686,U+968B,U+9698-9699,U+96A7,U+96B6,U+96BE,U+96C0-96C1,U+96C4-96C5,U+96C7,U+96CC-96CD,U+96CF,U+96D5,U+96E8,U+96EA,U+96F7,U+96F9,U+96FE,U+9704,U+9707,U+9709,U+970D,U+9713,U+9716,U+971C,U+971E,U+9732,U+9738-9739,U+9752,U+9756,U+975B,U+9760-9761,U+9769,U+9773-9774,U+9776,U+978B,U+978D,U+9798,U+97A0,U+97AD,U+97E6-97E7,U+97E9,U+97ED,U+97F3,U+97F5-97F6,U+9876-9877,U+987D-987F,U+9881-9882,U+9885,U+9887-9888,U+988A,U+9890,U+9893,U+9896-9897,U+989C,U+98A0,U+98A4,U+98A7,U+98CE,U+98D8,U+98DE-98DF,U+9910,U+9965,U+996D-9972,U+9975-9976,U+997A,U+997C,U+997F,U+9981,U+9985-9986,U+998B,U+998F,U+9992,U+9999,U+9A6C-9A71,U+9A73-9A74,U+9A76,U+9A79,U+9A7B-9A7C,U+9A7E,U+9A82,U+9A84,U+9A86-9A87,U+9A8B,U+9A8F,U+9A91,U+9A97,U+9A9A,U+9AA1,U+9AA8,U+9AB8,U+9AD3,U+9B03,U+9B3C,U+9B41-9B42,U+9B44,U+9B4F,U+9B54,U+9C7C,U+9C81,U+9C8D,U+9C9C,U+9CA4,U+9CB8,U+9CC3,U+9CD6,U+9CDE,U+9E1F,U+9E21,U+9E23,U+9E25-9E26,U+9E2D,U+9E2F,U+9E33,U+9E35,U+9E3D,U+9E3F,U+9E43,U+9E45,U+9E4A,U+9E4F,U+9E64,U+9E70,U+9E7F,U+9E93,U+9EA6,U+9EBB,U+9EC4,U+9ECD,U+9ED1,U+9ED4,U+9F0E,U+9F13,U+9F20,U+9F3B,U+9F50,U+9F7F,U+9F84,U+9F8B,U+9F99-9F9A,U+9F9F;
+}
 :root {
-  --bg: #ffffff;
-  --surface: #f1f4f0;
-  --ink: #0f1f10;
-  --muted: #4a5d4b;
-  --accent: #c6f19d;
-  --accent-ink: #0f1f10;
-  --green: #315e35;
-  --dark: #0f1f10;
-  --dark-surface: #162a17;
-  --dark-muted: #bccabb;
-  --tool: #122017;
-  --tool-surface: #1c3022;
-  --tool-active: #2c4532;
-  --tool-ink: #ffffff;
-  --tool-muted: #c0cfbf;
-  --tool-line: #3b5641;
-  --tool-green: #c6f19d;
-  --syntax-keyword: #f1c79b;
-  --syntax-type: #b9dcff;
-  --syntax-string: #c6f19d;
-  --syntax-property: #b9dcff;
+  --bg: #faf9f5;
+  --surface: #f0eee6;
+  --ink: #141413;
+  --muted: #5f5b52;
+  --accent: #ad5033;
+  --accent-ink: #faf9f5;
+  --green: #55683f;
+  --field-cyan: #f2e6da;
+  --field-mint: #e8e6dc;
+  --dark: #141413;
+  --dark-surface: #26241f;
+  --dark-muted: #b0aea5;
+  --tool: #1c1b18;
+  --tool-surface: #26241f;
+  --tool-active: #3a362e;
+  --tool-ink: #f0eee6;
+  --tool-muted: #b0aea5;
+  --tool-line: #3d3a33;
+  --tool-green: #c3cf9f;
+  --syntax-keyword: #e3a6c8;
+  --syntax-type: #eac48a;
+  --syntax-string: #c3cf9f;
+  --syntax-property: #a9c4e2;
   --sans: "Hanken Grotesk", "TheoremOS Sans SC", "PingFang SC", "Microsoft YaHei", "Noto Sans CJK SC", sans-serif;
+  --serif: "TheoremOS Serif Latin", "TheoremOS Serif SC", "Songti SC", "Noto Serif CJK SC", Georgia, serif;
   --mono: "Fira Code", monospace; /* taste-skill-ignore: literal Lean code only. */
   --step-small: 14px;
   --step-body: 18px;
@@ -65,7 +89,7 @@
 html { scroll-behavior: smooth; scroll-padding-top: 88px; }
 body { margin: 0; font: var(--step-body)/1.65 var(--sans); color: var(--ink); background: var(--bg); -webkit-font-smoothing: antialiased; }
 p, h1, h2, h3, figure { margin: 0; }
-h1, h2, h3 { font-weight: 600; letter-spacing: -.025em; text-wrap: balance; }
+h1, h2, h3 { font-family: var(--serif); font-weight: 500; letter-spacing: -.01em; text-wrap: balance; }
 h2 { font-size: var(--step-head); line-height: 1.25; }
 h3 { font-size: var(--step-lead); line-height: 1.4; }
 p { max-width: 60ch; }
@@ -74,7 +98,7 @@ a:hover { text-decoration: underline; }
 button { font: inherit; color: inherit; border: 0; background: none; cursor: pointer; }
 button, a, summary { -webkit-tap-highlight-color: transparent; }
 a:focus-visible, button:focus-visible, summary:focus-visible, [tabindex="0"]:focus-visible { outline: 3px solid var(--green); outline-offset: 4px; }
-.hero-shell :focus-visible, .site-header :focus-visible, .proofs-section :focus-visible, .start-section :focus-visible { outline-color: var(--accent); }
+.start-section :focus-visible { outline-color: var(--tool-green); }
 img { display: block; max-width: 100%; height: auto; }
 code, pre { font-family: var(--mono); }
 [hidden] { display: none !important; }
@@ -83,34 +107,35 @@ details:not([open]) > :not(summary) { display: none; }
 svg.lucide { width: 20px; height: 20px; flex-shrink: 0; stroke-width: 1.7; }
 .wrap { width: calc(100% - var(--margin) * 2); max-width: 1360px; margin-inline: auto; }
 .sr-only { position: absolute; width: 1px; height: 1px; padding: 0; margin: -1px; overflow: hidden; clip-path: inset(50%); white-space: nowrap; }
-.skip-link { position: fixed; z-index: 100; left: 16px; top: 12px; padding: 10px 16px; background: var(--accent); color: var(--ink); transform: translateY(-160%); }
+.skip-link { position: fixed; z-index: 100; left: 16px; top: 12px; padding: 10px 16px; background: var(--ink); color: var(--bg); transform: translateY(-160%); }
 .skip-link:focus { transform: translateY(0); }
-.site-header { position: relative; z-index: 30; background: var(--dark); color: var(--bg); }
+.site-header { position: relative; z-index: 30; background: var(--bg); color: var(--ink); }
 .header-inner { min-height: 80px; display: flex; align-items: center; gap: 32px; }
-.brand { display: inline-flex; align-items: center; gap: 10px; font-size: 24px; font-weight: 600; line-height: 1; letter-spacing: -.025em; flex-shrink: 0; }
-.brand img { width: 30px; height: 30px; filter: invert(1); }
+.brand { display: inline-flex; align-items: center; gap: 10px; font-family: var(--serif); font-size: 24px; font-weight: 600; line-height: 1; letter-spacing: -.01em; flex-shrink: 0; }
+.brand img { width: 30px; height: 30px; }
 .brand:hover { text-decoration: none; }
 .desktop-nav { display: flex; align-items: center; gap: 28px; margin-left: auto; font-size: 16px; }
 .desktop-nav a { display: flex; align-items: center; min-height: 44px; }
 .header-actions { display: flex; align-items: center; gap: 28px; font-size: 16px; }
 .lang-link { display: flex; align-items: center; justify-content: center; min-width: 44px; min-height: 44px; }
-.nav-start { display: inline-flex; align-items: center; justify-content: center; gap: 16px; min-height: 44px; padding: 10px 18px; background: var(--accent); color: var(--accent-ink); border-radius: var(--radius); white-space: nowrap; }
-.nav-start:hover, .button-lime:hover { background: var(--bg); text-decoration: none; }
+.nav-start { display: inline-flex; align-items: center; justify-content: center; gap: 16px; min-height: 44px; padding: 10px 18px; background: var(--ink); color: var(--bg); border-radius: var(--radius); white-space: nowrap; }
+.nav-start:hover { background: var(--green); text-decoration: none; }
+.button-lime:hover { background: var(--ink); text-decoration: none; }
 .menu-toggle { display: none; place-items: center; width: 44px; height: 44px; padding: 0; }
 .menu-toggle .lucide-x, .menu-toggle[aria-expanded="true"] .lucide-menu { display: none; }
 .menu-toggle[aria-expanded="true"] .lucide-x { display: block; }
 .mobile-nav { padding-block: 8px 24px; }
 .mobile-nav a { display: flex; align-items: center; justify-content: space-between; min-height: 48px; }
-.hero-shell { background: var(--dark); color: var(--bg); }
+.hero-shell { background: var(--bg); color: var(--ink); }
 .hero { display: grid; grid-template-columns: minmax(0, .82fr) minmax(0, 1.25fr); gap: 60px; padding-block: 64px 88px; align-items: center; }
 .hero-copy { padding-block: 28px; }
 #hero-title { font-size: var(--step-display); line-height: 1.15; }
 .hero-line { display: block; overflow: hidden; }
 .hero-name { display: block; }
 .hero-description { margin-top: 28px; max-width: 28em; }
-.hero-category { margin-top: 16px; color: var(--dark-muted); font-size: 16px; }
+.hero-category { margin-top: 16px; color: var(--muted); font-size: 16px; }
 .hero-actions { display: flex; align-items: center; flex-wrap: wrap; gap: 16px 28px; margin-top: 32px; }
-.hero-terms { margin-top: 20px; font-size: 16px; color: var(--dark-muted); }
+.hero-terms { margin-top: 20px; font-size: 16px; color: var(--muted); }
 .button { display: inline-flex; align-items: center; justify-content: center; min-height: 52px; padding: 12px 22px; gap: 24px; font-weight: 600; border-radius: var(--radius); transition: transform 160ms var(--ease-out), background 160ms; }
 .button:hover { text-decoration: none; }
 .button:active, .nav-start:active { transform: translateY(2px); }
@@ -218,18 +243,18 @@ summary svg { flex-shrink: 0; transition: transform 180ms var(--ease-out); }
 .product-fragment figcaption { padding-top: 20px; }
 .product-fragment figcaption p { margin-top: 10px; font-size: 16px; }
 .settings-fragment { max-width: 280px; justify-self: end; }
-.proofs-section { background: var(--dark); color: var(--bg); }
+.proofs-section { background: var(--bg); color: var(--ink); }
 .proof-heading > div:first-child > p { margin-top: 20px; max-width: 28em; }
 .proof-totals { display: flex; gap: 48px; padding-top: 4px; }
 .proof-totals a { display: flex; flex-direction: column; gap: 8px; font-size: 16px; }
 .proof-totals strong { font-size: var(--step-display); line-height: 1; font-weight: 500; }
-.featured-proof-sheet { display: grid; grid-template-columns: minmax(0, .78fr) minmax(0, 1.22fr); background: var(--dark-surface); }
+.featured-proof-sheet { display: grid; grid-template-columns: minmax(0, .78fr) minmax(0, 1.22fr); background: var(--surface); }
 .featured-problem { display: flex; flex-direction: column; align-items: flex-start; padding: 32px; }
 .featured-problem h2 { font-size: 28px; }
-.featured-statement { margin-top: 12px; font-size: var(--step-small); color: var(--dark-muted); }
+.featured-statement { margin-top: 12px; font-size: var(--step-small); color: var(--muted); }
 .featured-question { margin-top: 20px; font-size: 16px; text-wrap: pretty; }
 .featured-problem .text-link { margin-top: auto; padding-top: 16px; }
-.featured-answer { min-width: 0; background: var(--tool); }
+.featured-answer { min-width: 0; background: var(--tool); color: var(--tool-ink); }
 .featured-code-heading { display: flex; align-items: center; justify-content: space-between; gap: 16px; min-height: 64px; padding: 16px 24px; font-size: var(--step-small); cursor: pointer; list-style: none; }
 .featured-file { display: inline-flex; align-items: center; gap: 12px; }
 .featured-file code { font-size: 13px; color: var(--tool-muted); }
@@ -238,39 +263,39 @@ summary svg { flex-shrink: 0; transition: transform 180ms var(--ease-out); }
 .featured-receipt { display: flex; align-items: center; justify-content: space-between; gap: 12px; padding: 12px 24px; background: var(--tool-surface); }
 .featured-receipt p { display: flex; align-items: center; gap: 8px; color: var(--tool-green); font-size: 16px; }
 .featured-receipt .text-link { font-size: var(--step-small); flex-shrink: 0; }
-.featured-proof figcaption { margin-top: 16px; font-size: var(--step-small); color: var(--dark-muted); }
+.featured-proof figcaption { margin-top: 16px; font-size: var(--step-small); color: var(--muted); }
 .proof-list { margin-top: 32px; }
-.proof-list > summary { background: var(--tool-surface); }
+.proof-list > summary { background: var(--surface); }
 .proof-table { width: 100%; border-collapse: collapse; text-align: left; margin-top: 24px; }
-.proof-table thead th { padding: 12px 24px; font-size: var(--step-small); font-weight: 400; color: var(--dark-muted); }
-.proof-row:nth-child(odd) { background: var(--dark-surface); }
+.proof-table thead th { padding: 12px 24px; font-size: var(--step-small); font-weight: 400; color: var(--muted); }
+.proof-row:nth-child(odd) { background: var(--surface); }
 .proof-row > th { width: 65%; font-weight: 400; }
 .proof-row > td, .proof-row > th { padding: 20px 24px; vertical-align: top; }
 .proof-row h3 { font-size: var(--step-lead); margin-bottom: 8px; }
 .proof-subtitle { font-size: 16px; }
-.proof-credit { margin-top: 6px; font-size: var(--step-small); color: var(--dark-muted); }
-.proof-area { color: var(--dark-muted); }
+.proof-credit { margin-top: 6px; font-size: var(--step-small); color: var(--muted); }
+.proof-area { color: var(--muted); }
 .proof-links { display: flex; flex-wrap: wrap; gap: 4px 24px; font-size: var(--step-small); }
 .proof-links a { display: inline-flex; align-items: center; gap: 6px; min-height: 44px; }
 .proof-links svg { width: 16px; height: 16px; }
-.proof-pass { color: var(--accent); }
+.proof-pass { color: var(--green); }
 .archive-layout { display: grid; grid-template-columns: minmax(0, .75fr) minmax(0, 1.25fr); gap: 64px; align-items: center; margin-top: 64px; }
 .archive-copy > p { margin-top: 18px; font-size: 16px; }
 .archive-copy > .text-link { margin-top: 12px; color: var(--accent); }
-.archive-copy > .proof-provenance { margin-top: 32px; font-size: 16px; color: var(--dark-muted); }
+.archive-copy > .proof-provenance { margin-top: 32px; font-size: 16px; color: var(--muted); }
 .archive-image-link { display: block; overflow: hidden; border-radius: var(--radius); }
 .archive-image-link img { width: 100%; }
 .archive-showcase figcaption { padding-top: 8px; font-size: var(--step-small); }
 .archive-showcase figcaption a { display: inline-flex; align-items: center; gap: 8px; min-height: 44px; }
-.components-shell { background: var(--bg); }
+.components-shell { background: var(--field-mint); }
 .component-layout { display: grid; grid-template-columns: minmax(0, .72fr) minmax(0, 1.28fr); gap: 64px; align-items: start; }
 .component-explorer { min-width: 0; }
-.component-tabs { display: flex; flex-direction: column; --selection-color: var(--surface); }
+.component-tabs { display: flex; flex-direction: column; --selection-color: var(--bg); }
 .component-tab { display: flex; align-items: center; gap: 20px; min-height: 56px; padding: 12px 18px; text-align: left; transition: background 180ms; }
 .component-number { font-size: 16px; min-width: 28px; color: var(--muted); }
 .component-tab strong { font-size: var(--step-lead); font-weight: 500; }
 .component-tab > svg { margin-left: auto; opacity: 0; }
-.component-tab:hover, .component-tab[aria-selected="true"] { background: var(--surface); color: var(--ink); }
+.component-tab:hover, .component-tab[aria-selected="true"] { background: var(--bg); color: var(--ink); }
 .component-tab[aria-selected="true"] > svg { opacity: 1; }
 .component-panel { padding: 28px 18px 0; }
 .module-details h3 { margin-bottom: 12px; }
@@ -292,7 +317,9 @@ summary svg { flex-shrink: 0; transition: transform 180ms var(--ease-out); }
 .module-preview-link img { width: 100%; aspect-ratio: 1440 / 900; }
 .module-showcase figcaption { display: flex; justify-content: flex-end; padding-top: 12px; font-size: var(--step-small); color: var(--muted); }
 .no-script-note { margin-top: 24px; font-size: 16px; }
-.start-section { padding-block: 88px; background: var(--dark-surface); color: var(--bg); }
+.start-section { padding-block: 88px; background: var(--dark); color: var(--tool-ink); }
+.start-section .button-lime { background: var(--field-mint); color: var(--ink); }
+.start-section .button-lime:hover { background: var(--bg); }
 .start-layout { display: grid; grid-template-columns: minmax(0, .9fr) minmax(0, 1.1fr); gap: 9%; align-items: start; }
 .start-copy > p { margin-top: 24px; }
 .start-copy > .access-cost { margin-top: 20px; color: var(--dark-muted); font-size: 16px; }
@@ -302,13 +329,13 @@ summary svg { flex-shrink: 0; transition: transform 180ms var(--ease-out); }
 .access-steps li { padding-left: 8px; }
 .access-steps strong { font-size: 16px; font-weight: 600; }
 .access-steps p { margin-top: 4px; font-size: 16px; color: var(--dark-muted); }
-.existing-access { color: var(--accent); }
+.existing-access { color: var(--tool-green); }
 .faq-section > h2 { font-size: 28px; margin-bottom: 28px; }
 .faq-list details { padding: 4px 20px; background: var(--tool); }
 .faq-list details + details { margin-top: 8px; }
 .faq-list summary { display: flex; align-items: center; justify-content: space-between; gap: 20px; min-height: 64px; cursor: pointer; list-style: none; font-size: 18px; font-weight: 500; }
 .faq-list summary svg { width: 18px; height: 18px; }
-.faq-list details[open] { background: var(--accent); color: var(--accent-ink); padding-bottom: 20px; }
+.faq-list details[open] { background: var(--surface); color: var(--ink); padding-bottom: 20px; }
 .faq-list details[open] summary svg { transform: rotate(45deg); }
 .faq-list details p { margin-top: 8px; font-size: 16px; }
 .faq-list details p a { text-decoration: underline; }
@@ -322,7 +349,7 @@ summary svg { flex-shrink: 0; transition: transform 180ms var(--ease-out); }
 .preview-open { overflow: hidden; scrollbar-gutter: stable; }
 .preview-dialog { width: min(1540px, calc(100% - 48px)); max-width: none; max-height: calc(100dvh - 48px); padding: 0; border: 0; background: var(--bg); color: var(--ink); }
 .preview-dialog[open] { display: flex; flex-direction: column; }
-.preview-dialog::backdrop { background: rgb(15 31 16 / 85%); }
+.preview-dialog::backdrop { background: rgb(20 20 19 / 85%); }
 .preview-dialog-header { display: flex; align-items: center; justify-content: space-between; flex: 0 0 auto; gap: 24px; padding: 16px 20px; }
 .preview-dialog-header strong { display: block; font-size: 16px; font-weight: 500; }
 .preview-dialog-header strong span { margin-left: 9px; }

diff --git a/docs/website.md b/docs/website.md
@@ -71,7 +71,7 @@ bun run build:site
 - `scripts/build-site.ts`：构建中英文页面、浏览器脚本和公开数据，并复制素材与许可证。
 - `docs/site-repo/`：公开仓库独有的文件（README、Issue 表单）。
 
-首页以森林绿首屏、证明档案区和浅绿色工作台、组件区交替排布。首屏将原题到 Lean 证明的说明、申请与工作台入口和真实预设记录生成的四步回放并列展示，手机端按顺序排列。工作台区使用真实新会话截图，展示自然语言入口与两阶段预算；`picture` 按屏幕宽度加载独立的桌面或手机视口。截图可打开完整界面预览，支持缩放、鼠标拖动和触屏滚动，关闭后恢复焦点；无 JavaScript 时仍可打开原图。开始区说明白名单内测、平台免费与自备模型 Key，提供申请流程、邮件申请和已有资格用户的工作台入口。
+首页沿用暖纸色底、墨色文字、陶土色主按钮与衬线标题，组件区使用原有浅色底。首屏将原题到 Lean 证明的说明、申请与工作台入口和真实预设记录生成的四步回放并列展示，手机端按顺序排列。工作台区使用真实新会话截图，展示自然语言入口与两阶段预算；`picture` 按屏幕宽度加载独立的桌面或手机视口。截图可打开完整界面预览，支持缩放、鼠标拖动和触屏滚动，关闭后恢复焦点；无 JavaScript 时仍可打开原图。开始区说明白名单内测、平台免费与自备模型 Key，提供申请流程、邮件申请和已有资格用户的工作台入口。
 
 四步回放的候选源码读取自 `src/math/localExample.ts`，回执读取自 `docs/assets/replay.json`；切换演示不会启动模型或 Lean。默认停在最终验收，点击播放后从候选开始，可暂停续播、手动选步和重新播放；离屏或页面隐藏会暂停，返回后由用户继续播放。反馈步骤是对预设示例的检查说明，并非原始诊断日志。手机端先展示已归档的最终回执，再展示选中步骤的源码。源码与回放记录改动后需要重新构建。
 
